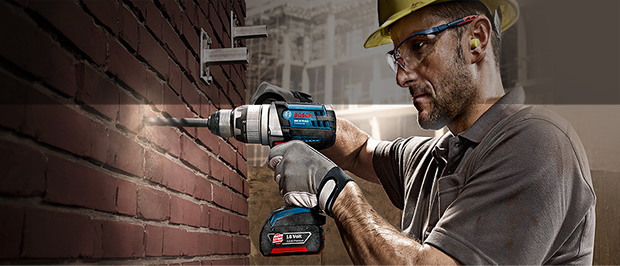
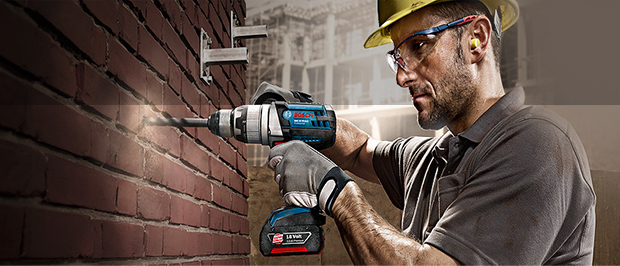
Корректировки стилизации

Changed region(s): [[0.1839, 0.0, 1.0, 0.391]]

diff --git a/css/style.css b/css/style.css
@@ -516,8 +516,6 @@ img {
 }
 
 .slider-item {
-    padding-top: 23px;
-    padding-left: 24px;
     width: 620px;
     height: 266px;
 }
@@ -532,19 +530,26 @@ img {
     background-repeat: no-repeat;
 }
 
-.slider-item h3 {
-    margin: 0;
+.slider-item-title {
+    padding-top: 23px;
+    padding-left: 24px;
+    padding-bottom: 15px;
+    margin-bottom: 97px;
     color: var(--basic-white);
+    background-color: rgba(0, 0, 0, 0.25);
+}
+
+.slider-item-title h3 {
+    margin: 0;
+    margin-bottom: 6px;
     font-weight: bold;
     font-size: 36px;
     line-height: 36px;
     text-transform: uppercase;
 }
 
-.slider-item p {
+.slider-item-title p {
     margin: 0;
-    margin-top: 5px;
-    color: var(--basic-white);
     font-size: 18px;
     line-height: 24px;
 }
@@ -553,7 +558,7 @@ img {
     display: inline-block;
     vertical-align: middle;
     padding: 10px 46px;
-    margin-top: 113px;
+    margin-left: 24px;
 }
 
 .slider-item a:active {
@@ -607,13 +612,13 @@ img {
 
 .arrow-left {
     position: absolute;
-    top: -167px;
+    top: -144px;
     left: 24px;
 }
 
 .arrow-right {
     position: absolute;
-    top: -168px;
+    top: -144px;
     right: -600px;
     transform: scale(-1, 1);
 }
@@ -1463,8 +1468,8 @@ img {
     position: absolute;
     left: -35px;
     top: -1px;
-    width: 23px;
-    height: 23px;
+    width: 26px;
+    height: 26px;
     background-image: url("../img/checkbox-off.svg");
     background-repeat: no-repeat;
     background-position: 0 0;
@@ -1476,8 +1481,8 @@ img {
     position: absolute;
     left: -35px;
     top: -1px;
-    width: 23px;
-    height: 23px;
+    width: 26px;
+    height: 26px;
     background-image: url("../img/checkbox-on.svg");
     background-repeat: no-repeat;
     background-position: 0 0;
@@ -1676,8 +1681,7 @@ img {
 
 .choices-list {
     display: none;
-    margin-top: 38px;
-    margin-bottom: 54px;
+    margin-bottom: 55px;
     list-style: none;
 }
 
@@ -1782,6 +1786,7 @@ img {
 }
 
 .products-buy {
+    position: relative;
     display: inline-block;
     vertical-align: middle;
     padding: 10px 40px 10px 53px;
@@ -1794,6 +1799,19 @@ img {
     text-transform: uppercase;
     box-shadow: inset 0px -3px 0px var(--products-buy-shadow);
     border-radius: 2px;
+}
+
+.products-buy::after {
+    content: "";
+    position: absolute;
+    top: 10px;
+    left: 30px;
+    width: 15px;
+    height: 15px;
+    background-image: url("../img/icon_cart.svg");
+    background-repeat: no-repeat;
+    background-position: 0 0;
+    opacity: 0.3;
 }
 
 .products-buy:hover,
@@ -1929,6 +1947,7 @@ img {
 
 .modal-map iframe {
     display: block;
+    position: relative;
     border: none;
 }
 

diff --git a/index.html b/index.html
@@ -94,13 +94,17 @@
                 <div class="main-menu-slider">
                     <ul class="slider-list">
                         <li class="slider-item slide slide-current">
-                            <h3>Перфораторы</h3>
-                            <p>Настоящие мужские игрушки</p>
+                            <div class="slider-item-title">
+                                <h3>Перфораторы</h3>
+                                <p>Настоящие мужские игрушки</p>
+                            </div>
                             <a class="button" href="catalog.html">Открыть каталог</a>
                         </li>
                         <li class="slider-item slide">
-                            <h3>Дрели</h3>
-                            <p>Соседям на радость!</p>
+                            <div class="slider-item-title">
+                                <h3>Дрели</h3>
+                                <p>Соседям на радость!</p>
+                            </div>
                             <a class="button" href="catalog.html">Открыть каталог</a>
                         </li>
                     </ul>

diff --git a/js/script.js b/js/script.js
@@ -41,7 +41,7 @@ feedbackClose.addEventListener("click", function(evt) {
 });
 
 feedbackForm.addEventListener("submit", function(evt) {
-    if (!feedbackName.value || !feedbackMail.value || !feedbackMessage) {
+    if (!feedbackName.value || !feedbackMail.value || !feedbackMessage.value) {
         evt.preventDefault();
         feedbackModal.classList.remove("modal-error");
         feedbackModal.offsetWidth = feedbackModal.offsetWidth;
@@ -75,4 +75,13 @@ mapLink.addEventListener("click", function(evt) {
 mapClose.addEventListener("click", function(evt) {
     evt.preventDefault();
     mapModal.classList.remove("modal-show");
+});
+
+window.addEventListener("keydown", function(evt) {
+    if (evt.keyCode === 27) {
+        if (mapModal.classList.contains("modal-show")) {
+            evt.preventDefault();
+            mapModal.classList.remove("modal-show");
+        }
+    }
 });
